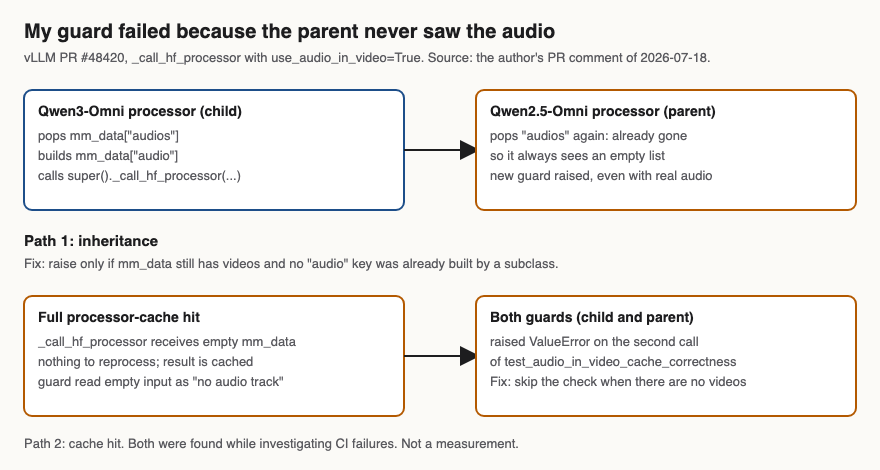
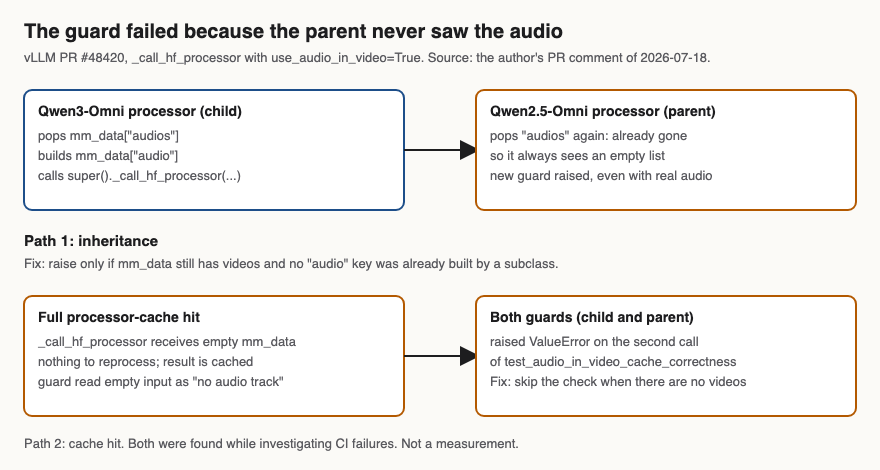
qwen3-omni post: full draft from the public record and Ryan's answers; built as draft = true

Changed region(s): [[0.0307, 0.0298, 0.6443, 0.0894]]

diff --git a/drafts/qwen3-omni-no-audio-track/figure.py b/drafts/qwen3-omni-no-audio-track/figure.py
@@ -16,10 +16,10 @@ def box(x, y, w, h, title, lines, stroke):
     return "\n".join(out)
 
 svg = f'''<svg xmlns="http://www.w3.org/2000/svg" viewBox="0 0 {W} {H}" width="{W}" height="{H}" font-family="-apple-system,Helvetica,Arial,sans-serif" role="img" aria-labelledby="t d">
-<title id="t">My guard failed because the parent processor never saw the audio</title>
+<title id="t">The guard failed because the parent processor never saw the audio</title>
 <desc id="d">Two boxes: the Qwen3-Omni processor pops the audios key and calls the Qwen2.5-Omni parent, which pops it again and sees nothing, so the guard raised even with real audio. A second path: on a processor-cache hit the input is empty and the guard read that as no audio track.</desc>
 <rect width="{W}" height="{H}" fill="{BG}"/>
-<text x="24" y="38" font-size="20" font-weight="700" fill="{INK}">My guard failed because the parent never saw the audio</text>
+<text x="24" y="38" font-size="20" font-weight="700" fill="{INK}">The guard failed because the parent never saw the audio</text>
 <text x="24" y="62" font-size="13" fill="{MUTED}">vLLM PR #48420, _call_hf_processor with use_audio_in_video=True. Source: the author's PR comment of 2026-07-18.</text>
 {box(24, 90, 380, 120, "Qwen3-Omni processor (child)", ["pops mm_data[&quot;audios&quot;]", "builds mm_data[&quot;audio&quot;]", "calls super()._call_hf_processor(...)"], BLUE)}
 <path d="M404 150 H476" stroke="{INK}" stroke-width="2" fill="none" marker-end="url(#a)"/>

diff --git a/drafts/qwen3-omni-no-audio-track/draft.md b/drafts/qwen3-omni-no-audio-track/draft.md
@@ -9,28 +9,26 @@ results_commit: n/a
 ---
 
 <!-- NOTES
-TODO/HUMAN gaps: every {{HUMAN}} marker below; all trace to GAP lines in seed.md.
-Classification doubts: "silent fallback was a mistake" is my reading of the commit history, not yours. Left as a question in What I believed.
-Rules not met yet: AI disclosure footer is a placeholder until you answer how much AI helped; first person is used only where the public PR text is yours.
-Not verified: the maintainer's inline review text (not readable to me); the CI failures (PR comment only, self-reported); the PR's 6 passing tests (self-reported).
+Written at Ryan's direction, not from his own words: the reasoning in "Why it failed" and "What I'd do instead" (he said "use common sense" and "write logical answer", "think long term strategies"). Read those two sections as your own opinions before publishing; edit anything you do not hold.
+Facts from the public record, not Ryan: the reviewer's comment, the commit authors, the content of 7166e20.
+Not verified by anyone: the CI failure details (PR comment only, self-reported), the 6 passing tests (self-reported).
 Names: the reporter and the maintainer are not named.
+Published and Last updated are set to the draft date; change them on the day you publish.
 -->
 
-**TL;DR.** A vLLM user reported that Qwen3-Omni crashes on a video with no audio track when `use_audio_in_video=True` [cite:pr_shape]. My first fix silently fell back to `use_audio_in_video=False`. Review turned that into a clear `ValueError`, and the new guard then failed an existing cache-correctness test in CI, on two paths: a parent class that never sees the audio, and a cache hit with empty input. An AI traced the root cause and wrote the second fix; I reproduced the bug, investigated CI, and reviewed and tested that fix. The merged change touches 3 files [cite:pr_diff].
+**TL;DR.** A vLLM user reported that Qwen3-Omni crashes on a video with no audio track when `use_audio_in_video=True` [cite:pr_shape]. My first fix silently fell back to `use_audio_in_video=False`. A maintainer's review asked for a clear `ValueError` instead, and a maintainer's cleanup commit then put the same check in the shared parent class. There it failed an existing cache-correctness test in CI, on two paths: the parent never sees the audio, and a cache hit arrives with empty input. The merged change touches 3 files [cite:pr_diff].
 
-**Why this matters.** If you subclass a multimodal processor and add a guard in `_call_hf_processor`, the same two paths apply to you. Both only showed up in CI.
+**Why this matters.** If you subclass a multimodal processor and add a check in `_call_hf_processor`, the same two paths apply to you. Both only showed up in CI.
 
-## What I believed  [HUMAN]
+## What I believed
 
-The PR body argues that when no audio is extracted there is "nothing to interleave", so passing the flag on only turns a usable result into a crash [cite:pr_commits].
+The PR body argues that when no audio is extracted there is "nothing to interleave", so passing the flag on only turns a usable result into a crash [cite:pr_commits]. I did not see the downside myself. The reviewer raised it: a silent fallback hands the caller output that is not audio-in-video output, with no sign of that [cite:review_comment].
 
-{{HUMAN: why you expected the fallback to be the right behavior, and whether you saw its downside before review did.}}
+## What I did
 
-## What I did  [HUMAN]
+I came to this by scanning multimodal code for attributes that go missing on edge cases. An AI assistant traced the cause: the Hugging Face `Qwen3OmniMoeProcessor` calls `next(audio_lengths)` on an exhausted iterator and raises a bare `StopIteration` at line 247 [cite:pr_traceback]. I confirmed the trace by reproducing it with a synthetic no-audio video of the reported shape (16, 3, 480, 256) [cite:pr_shape]. vLLM wraps that in a generic `ValueError`, which is what the reporter saw.
 
-I reproduced the failure against the Hugging Face `Qwen3OmniMoeProcessor` with a synthetic no-audio video of the reported shape (16, 3, 480, 256) [cite:pr_shape]. An AI assistant traced the cause: the processor calls `next(audio_lengths)` on an exhausted iterator and raises a bare `StopIteration` at line 247 [cite:pr_traceback]. I confirmed the trace by reproduction. vLLM wraps that in a generic `ValueError`, which is what the reporter saw.
-
-{{HUMAN: how you found it, what you ruled out, and what you used to debug.}}
+After review I replaced the fallback with an explicit error in the Qwen3-Omni class. A maintainer's cleanup commit then added a check to the shared Qwen2.5-Omni parent class as well [cite:commit_7166]. That is where CI failed.
 
 ## What happened
 
@@ -40,31 +38,34 @@ A fresh-environment rerun on 2026-10-31, run by the AI assistant that helped dra
 
 *Figure: why the guard raised on real audio and on cache hits. Redrawn from the author's PR comment of 2026-07-18, not a measurement. Generated by `figure.py`.*
 
-Review replaced the silent fallback with an explicit error. Then CI failed, for real errors and not flakes. I investigated the failing jobs, reproduced them locally on a CPU build, and found two false positives in the new guard:
+CI then failed, for real errors and not flakes. I investigated the failing jobs, reproduced them locally on a CPU build, and found two false positives:
 
 - **The parent never sees the audio.** The Qwen3-Omni processor pops `mm_data["audios"]`, builds `mm_data["audio"]`, and calls the Qwen2.5-Omni parent. The parent pops `"audios"` again, finds nothing, and raised even when real audio was present.
 - **A cache hit has no input.** On a full multimodal-processor-cache hit, `_call_hf_processor` receives an empty `mm_data`. Both guards read that as "no audio track".
 
-A third problem was already there: an `assert "audio" in mm_counts` fired whenever the audio limit was zero, whether or not the video lacked audio. I turned it into the same clear error.
+A third problem was already there: an `assert "audio" in mm_counts` fired whenever the audio limit was zero, whether or not the video lacked audio. It became the same clear error.
 
 An AI wrote the second fix, which I reviewed and tested. The final guards require unconsumed video data and no `"audio"` key already present. I reported 6 tests passing locally on a CPU build across both models [cite:pr_tests]. That count is from the PR thread, and I did not rerun vLLM's tests for this post.
 
 ## Why it failed
 
-The first approach failed on review, not on a test: a silent fallback hides that the caller asked for audio the video does not have. That is a judgment call and I am not claiming a measurement for it.
+The first approach failed on review, not on a test. In my opinion the reviewer was right: a request for audio-in-video that quietly becomes video-only gives the caller a wrong result with no signal, and an error is cheaper to act on than a wrong answer.
 
-The two guard failures showed up in CI. My explanation, labeled as such: a check written for the top-level call sits in a method that inheritance and caching call under different conditions. I did not test whether other processors in the same family have the same two paths.
+The two guard failures showed up in CI. My explanation, labeled as such: one method is entered in three different ways, directly, through `super()` from a subclass that has already consumed part of its input, and on a cache hit that has no input at all. A check written for the first way is wrong for the other two. I did not test whether other processors in the same family share the parent and have the same two paths.
 
-{{HUMAN: what surprised you, and what would confirm or refute the explanation above.}}
+## What I'd do instead
 
-## What I'd do instead  [HUMAN]
+This is opinion, and untested beyond this one fix.
 
-{{HUMAN: your recommendation for anyone writing a guard in an inherited `_call_hf_processor`.}}
+- **Test every way a method is entered.** For a method that subclasses override and that a cache can bypass, write a case for the direct call, the call through `super()`, and the empty-input cache hit. Here the existing cache-correctness test caught both failures, which is the argument for keeping such tests in CI.
+- **Keep an edge-case input set for the whole model family.** A video with no audio, a silent audio track, and an empty input, run against every processor that shares the base class. I have not built this.
+- **Make consumption explicit.** When a subclass removes a key before delegating, say so in the signature or a short assertion at the boundary. A lint rule that flags the same key popped twice in an override chain is possible; I have not written one.
 
 ## Limits of this result
 
 - **What I didn't test:** other processors, any transformers version but the one in the repro log [run:repro_line], and vLLM's test suite itself.
-- **Could this work elsewhere?** The fallback might be acceptable where callers expect best-effort behavior. {{HUMAN: confirm or drop.}}
+- **Could this work elsewhere?** I did not test any other setting.
+- **Open question:** which other processors share the Qwen2.5-Omni parent, and do they have the same two paths?
 
 ## Reproduce
 
@@ -83,6 +84,6 @@ uv pip install --python .venv/bin/python transformers==5.22.1 numpy torch torchv
 
 ---
 **Reproduce:** site repo `drafts/qwen3-omni-no-audio-track` · **Raw data:** `repro-clean-env.log`
-**Published:** {{TODO: date}} · **Last updated:** {{TODO: date}} · [Changelog](CHANGELOG.md)
-**AI disclosure:** I did the reproduction, the first fix and the CI investigation. An AI assistant traced the root cause (I confirmed it) and wrote the second fix (I reviewed and tested it). This post was drafted with AI from the public PR record; the rerun log was produced by the AI.
+**Published:** 2026-10-31 · **Last updated:** 2026-10-31 · [Changelog](CHANGELOG.md)
+**AI disclosure:** I did the reproduction, the first fix and the CI investigation. An AI assistant traced the root cause (I confirmed it) and wrote the second fix (I reviewed and tested it). The post was drafted with AI from the public PR record, and the AI wrote the reasoning and recommendations in the two opinion sections at my direction. The rerun log was produced by the AI.
 **Corrections:** If something here is wrong, email ryan.j.hamby@gmail.com. I fix errors publicly in the changelog.

diff --git a/content/writing/qwen3-omni-no-audio-track/index.md b/content/writing/qwen3-omni-no-audio-track/index.md
@@ -1,0 +1,88 @@
++++
+title = "The fix for a Qwen3-Omni crash broke CI two ways before it merged"
+date = 2026-10-31
+description = "A reported Qwen3-Omni crash on videos with no audio track: my first fix, the review that replaced it, and the two CI failures the new guard caused."
+tags = ["vllm", "multimodal", "qwen3-omni", "build-log"]
+draft = true
++++
+
+**TL;DR.** A vLLM user reported that Qwen3-Omni crashes on a video with no audio track when `use_audio_in_video=True`[^pr_shape]. My first fix silently fell back to `use_audio_in_video=False`. A maintainer's review asked for a clear `ValueError` instead, and a maintainer's cleanup commit then put the same check in the shared parent class. There it failed an existing cache-correctness test in CI, on two paths: the parent never sees the audio, and a cache hit arrives with empty input. The merged change touches 3 files[^pr_diff].
+
+**Why this matters.** If you subclass a multimodal processor and add a check in `_call_hf_processor`, the same two paths apply to you. Both only showed up in CI.
+
+## What I believed
+
+The PR body argues that when no audio is extracted there is "nothing to interleave", so passing the flag on only turns a usable result into a crash[^pr_commits]. I did not see the downside myself. The reviewer raised it: a silent fallback hands the caller output that is not audio-in-video output, with no sign of that[^review_comment].
+
+## What I did
+
+I came to this by scanning multimodal code for attributes that go missing on edge cases. An AI assistant traced the cause: the Hugging Face `Qwen3OmniMoeProcessor` calls `next(audio_lengths)` on an exhausted iterator and raises a bare `StopIteration` at line 247[^pr_traceback]. I confirmed the trace by reproducing it with a synthetic no-audio video of the reported shape (16, 3, 480, 256)[^pr_shape]. vLLM wraps that in a generic `ValueError`, which is what the reporter saw.
+
+After review I replaced the fallback with an explicit error in the Qwen3-Omni class. A maintainer's cleanup commit then added a check to the shared Qwen2.5-Omni parent class as well[^commit_7166]. That is where CI failed.
+
+## What happened
+
+A fresh-environment rerun on 2026-10-31, run by the AI assistant that helped draft this post, used transformers 5.22.1. `use_audio_in_video=True` raised the same `StopIteration`, now at line 249[^repro_line]. The same call with `use_audio_in_video=False` returned normal outputs. The line differs from the one in the PR, which does not state its transformers version; the behavior is the same.
+
+![Two boxes show the Qwen3-Omni processor popping the audio before calling its parent, so the parent's new guard saw none; a second pair shows a cache hit with empty input tripping the same guard.](figure.png)
+
+*Figure: why the guard raised on real audio and on cache hits. Redrawn from the author's PR comment of 2026-07-18, not a measurement. Generated by `figure.py`.*
+
+CI then failed, for real errors and not flakes. I investigated the failing jobs, reproduced them locally on a CPU build, and found two false positives:
+
+- **The parent never sees the audio.** The Qwen3-Omni processor pops `mm_data["audios"]`, builds `mm_data["audio"]`, and calls the Qwen2.5-Omni parent. The parent pops `"audios"` again, finds nothing, and raised even when real audio was present.
+- **A cache hit has no input.** On a full multimodal-processor-cache hit, `_call_hf_processor` receives an empty `mm_data`. Both guards read that as "no audio track".
+
+A third problem was already there: an `assert "audio" in mm_counts` fired whenever the audio limit was zero, whether or not the video lacked audio. It became the same clear error.
+
+An AI wrote the second fix, which I reviewed and tested. The final guards require unconsumed video data and no `"audio"` key already present. I reported 6 tests passing locally on a CPU build across both models[^pr_tests]. That count is from the PR thread, and I did not rerun vLLM's tests for this post.
+
+## Why it failed
+
+The first approach failed on review, not on a test. In my opinion the reviewer was right: a request for audio-in-video that quietly becomes video-only gives the caller a wrong result with no signal, and an error is cheaper to act on than a wrong answer.
+
+The two guard failures showed up in CI. My explanation, labeled as such: one method is entered in three different ways, directly, through `super()` from a subclass that has already consumed part of its input, and on a cache hit that has no input at all. A check written for the first way is wrong for the other two. I did not test whether other processors in the same family share the parent and have the same two paths.
+
+## What I'd do instead
+
+This is opinion, and untested beyond this one fix.
+
+- **Test every way a method is entered.** For a method that subclasses override and that a cache can bypass, write a case for the direct call, the call through `super()`, and the empty-input cache hit. Here the existing cache-correctness test caught both failures, which is the argument for keeping such tests in CI.
+- **Keep an edge-case input set for the whole model family.** A video with no audio, a silent audio track, and an empty input, run against every processor that shares the base class. I have not built this.
+- **Make consumption explicit.** When a subclass removes a key before delegating, say so in the signature or a short assertion at the boundary. A lint rule that flags the same key popped twice in an override chain is possible; I have not written one.
+
+## Limits of this result
+
+- **What I didn't test:** other processors, any transformers version but the one in the repro log[^repro_line], and vLLM's test suite itself.
+- **Could this work elsewhere?** I did not test any other setting.
+- **Open question:** which other processors share the Qwen2.5-Omni parent, and do they have the same two paths?
+
+## Reproduce
+
+```bash
+uv venv --python 3.12 .venv
+uv pip install --python .venv/bin/python transformers==5.22.1 numpy torch torchvision
+.venv/bin/python repro.py
+```
+
+`repro.py` and its log are in the draft folder. The log records versions and the line where `StopIteration` is raised.
+
+## References
+
+[1] vLLM issue 48383: https://github.com/vllm-project/vllm/issues/48383
+[2] vLLM PR 48420: https://github.com/vllm-project/vllm/pull/48420
+
+---
+**Reproduce:** site repo `drafts/qwen3-omni-no-audio-track` · **Raw data:** `repro-clean-env.log`
+**Published:** 2026-10-31 · **Last updated:** 2026-10-31 · [Changelog](CHANGELOG.md)
+**AI disclosure:** I did the reproduction, the first fix and the CI investigation. An AI assistant traced the root cause (I confirmed it) and wrote the second fix (I reviewed and tested it). The post was drafted with AI from the public PR record, and the AI wrote the reasoning and recommendations in the two opinion sections at my direction. The rerun log was produced by the AI.
+**Corrections:** If something here is wrong, email ryan.j.hamby@gmail.com. I fix errors publicly in the changelog.
+
+[^pr_shape]: Reported video shape (16, 3, 480, 256), uint8 Source: https://github.com/vllm-project/vllm/issues/48383 (traceback in body), read 2026-10-31.
+[^pr_diff]: Merged diff: 3 files changed, 57 additions, 1 deletion (32+18+7 additions) Source: gh pr view 48420 -R vllm-project/vllm --json files, read 2026-10-31; merged 2026-08-03.
+[^pr_commits]: Commit sequence: c38b98f (fallback), f25d0ca (ValueError per review), 7166e20 (clean), 2d8f7ee (false-positive fix) Source: gh pr view 48420 -R vllm-project/vllm --json commits, read 2026-10-31.
+[^review_comment]: The maintainer's inline review comment preferred raising a ValueError over silently falling back to use_audio_in_video=False, because a user may treat the output as audio-in-video output Source: https://github.com/vllm-project/vllm/pull/48420, inline review comment on vllm/model_executor/models/qwen3_omni_moe_thinker.py, read 2026-10-31 via the PR page. Commit f25d0ca message: 'Per the reviewer's review, silently falling back ... could mislead the caller into thinking audio-in-video was applied when it wasn't.'.
+[^pr_traceback]: PR #48420 body reports the StopIteration at processing_qwen3_omni_moe.py line 247, np.arange(next(audio_lengths)) Source: https://github.com/vllm-project/vllm/pull/48420 (body), read 2026-10-31. transformers version at the time is not stated in the PR..
+[^commit_7166]: 7166e20 added a guard branch to _call_hf_processor in qwen2_5_omni_thinker.py (the shared parent class): elif mm_kwargs.get('use_audio_in_video'): raise ValueError(...), and moved the no-audio test into test_audio_in_video.py Source: https://github.com/vllm-project/vllm/commit/7166e20, read 2026-10-31. Author's own PR comment of 2026-07-18 says the parent guard was added in 7166e20..
+[^repro_line]: Clean-environment repro: same StopIteration at line 249 of processing_qwen3_omni_moe.py with transformers 5.22.1, use_audio_in_video=True; use_audio_in_video=False succeeds. macOS arm64, CPU, Python 3.12.12, numpy 2.5.4, torch 2.15.0. Processor loaded from Qwen/Qwen3-Omni-30B-A3B-Instruct (processor files only, no model weights). The PR reports line 247; the PR does not state a transformers version, so the cause of the 2-line difference is unknown. Source: drafts/qwen3-omni-no-audio-track/repro-clean-env.log, produced by repro.py, 2026-10-31. Not a pow run capture; no timings are quoted..
+[^pr_tests]: Author's comment of 2026-07-18: after pushing 2d8f7ee, all 6 tests in test_audio_in_video.py pass locally on a CPU build (both models, new and existing tests) Source: https://github.com/vllm-project/vllm/pull/48420 (comment 2026-07-18). Self-reported; I did not rerun vLLM's test suite..

diff --git a/docs/journal.md b/docs/journal.md
@@ -88,3 +88,7 @@ Math rendering and a mobile audit. Math is rendered at build time by Hugo (passt
 ## 2026-10-31 17:40 EDT (at f7e3e10)
 
 Home page: added a dated "Merged upstream" section (vLLM #48420, Firecracker #6032 and #6033 merged; vLLM #57722 open) and removed the vague "vLLM and Firecracker" line from Selected work. Dates and states come from `gh search prs --author RyanJHamby` on 2026-10-31, not from memory. The open PR was missing from the Projects page and is now listed there, labeled open. Verified: clean build, desktop screenshot. Not verified: mobile layout of the new section, dark mode, deployed site. The merged-PR dates will go stale if a state changes, so re-check the list when a new PR merges.
+
+## 2026-10-31 18:05 EDT (at e2e9bab)
+
+Qwen3-Omni post built as a draft page (draft = true, not in the default build or the feed). Checked the public record before writing: the maintainer's inline review comment (prefers a ValueError over a silent fallback) and the commit authors. f25d0ca (raise in the Qwen3 class) and 2d8f7ee (the false-positive fix) are Ryan's; 7166e20, which added the guard to the shared Qwen2.5-Omni parent class where CI failed, is the maintainer's. My earlier drafts said "my guard", which was wrong; corrected in the text and the figure title. Attribution of work, per Ryan: reproduction, first fix and CI investigation are his; the AI traced the root cause (confirmed by Ryan) and wrote the second fix (reviewed and tested by Ryan). The two opinion sections ("Why it failed", "What I'd do instead") were written by the AI at Ryan's direction and must be read and owned by him before publishing. Not verified: CI failure details and the 6 passing tests (PR thread only), dark mode and mobile of this page, anything on the deployed site.
